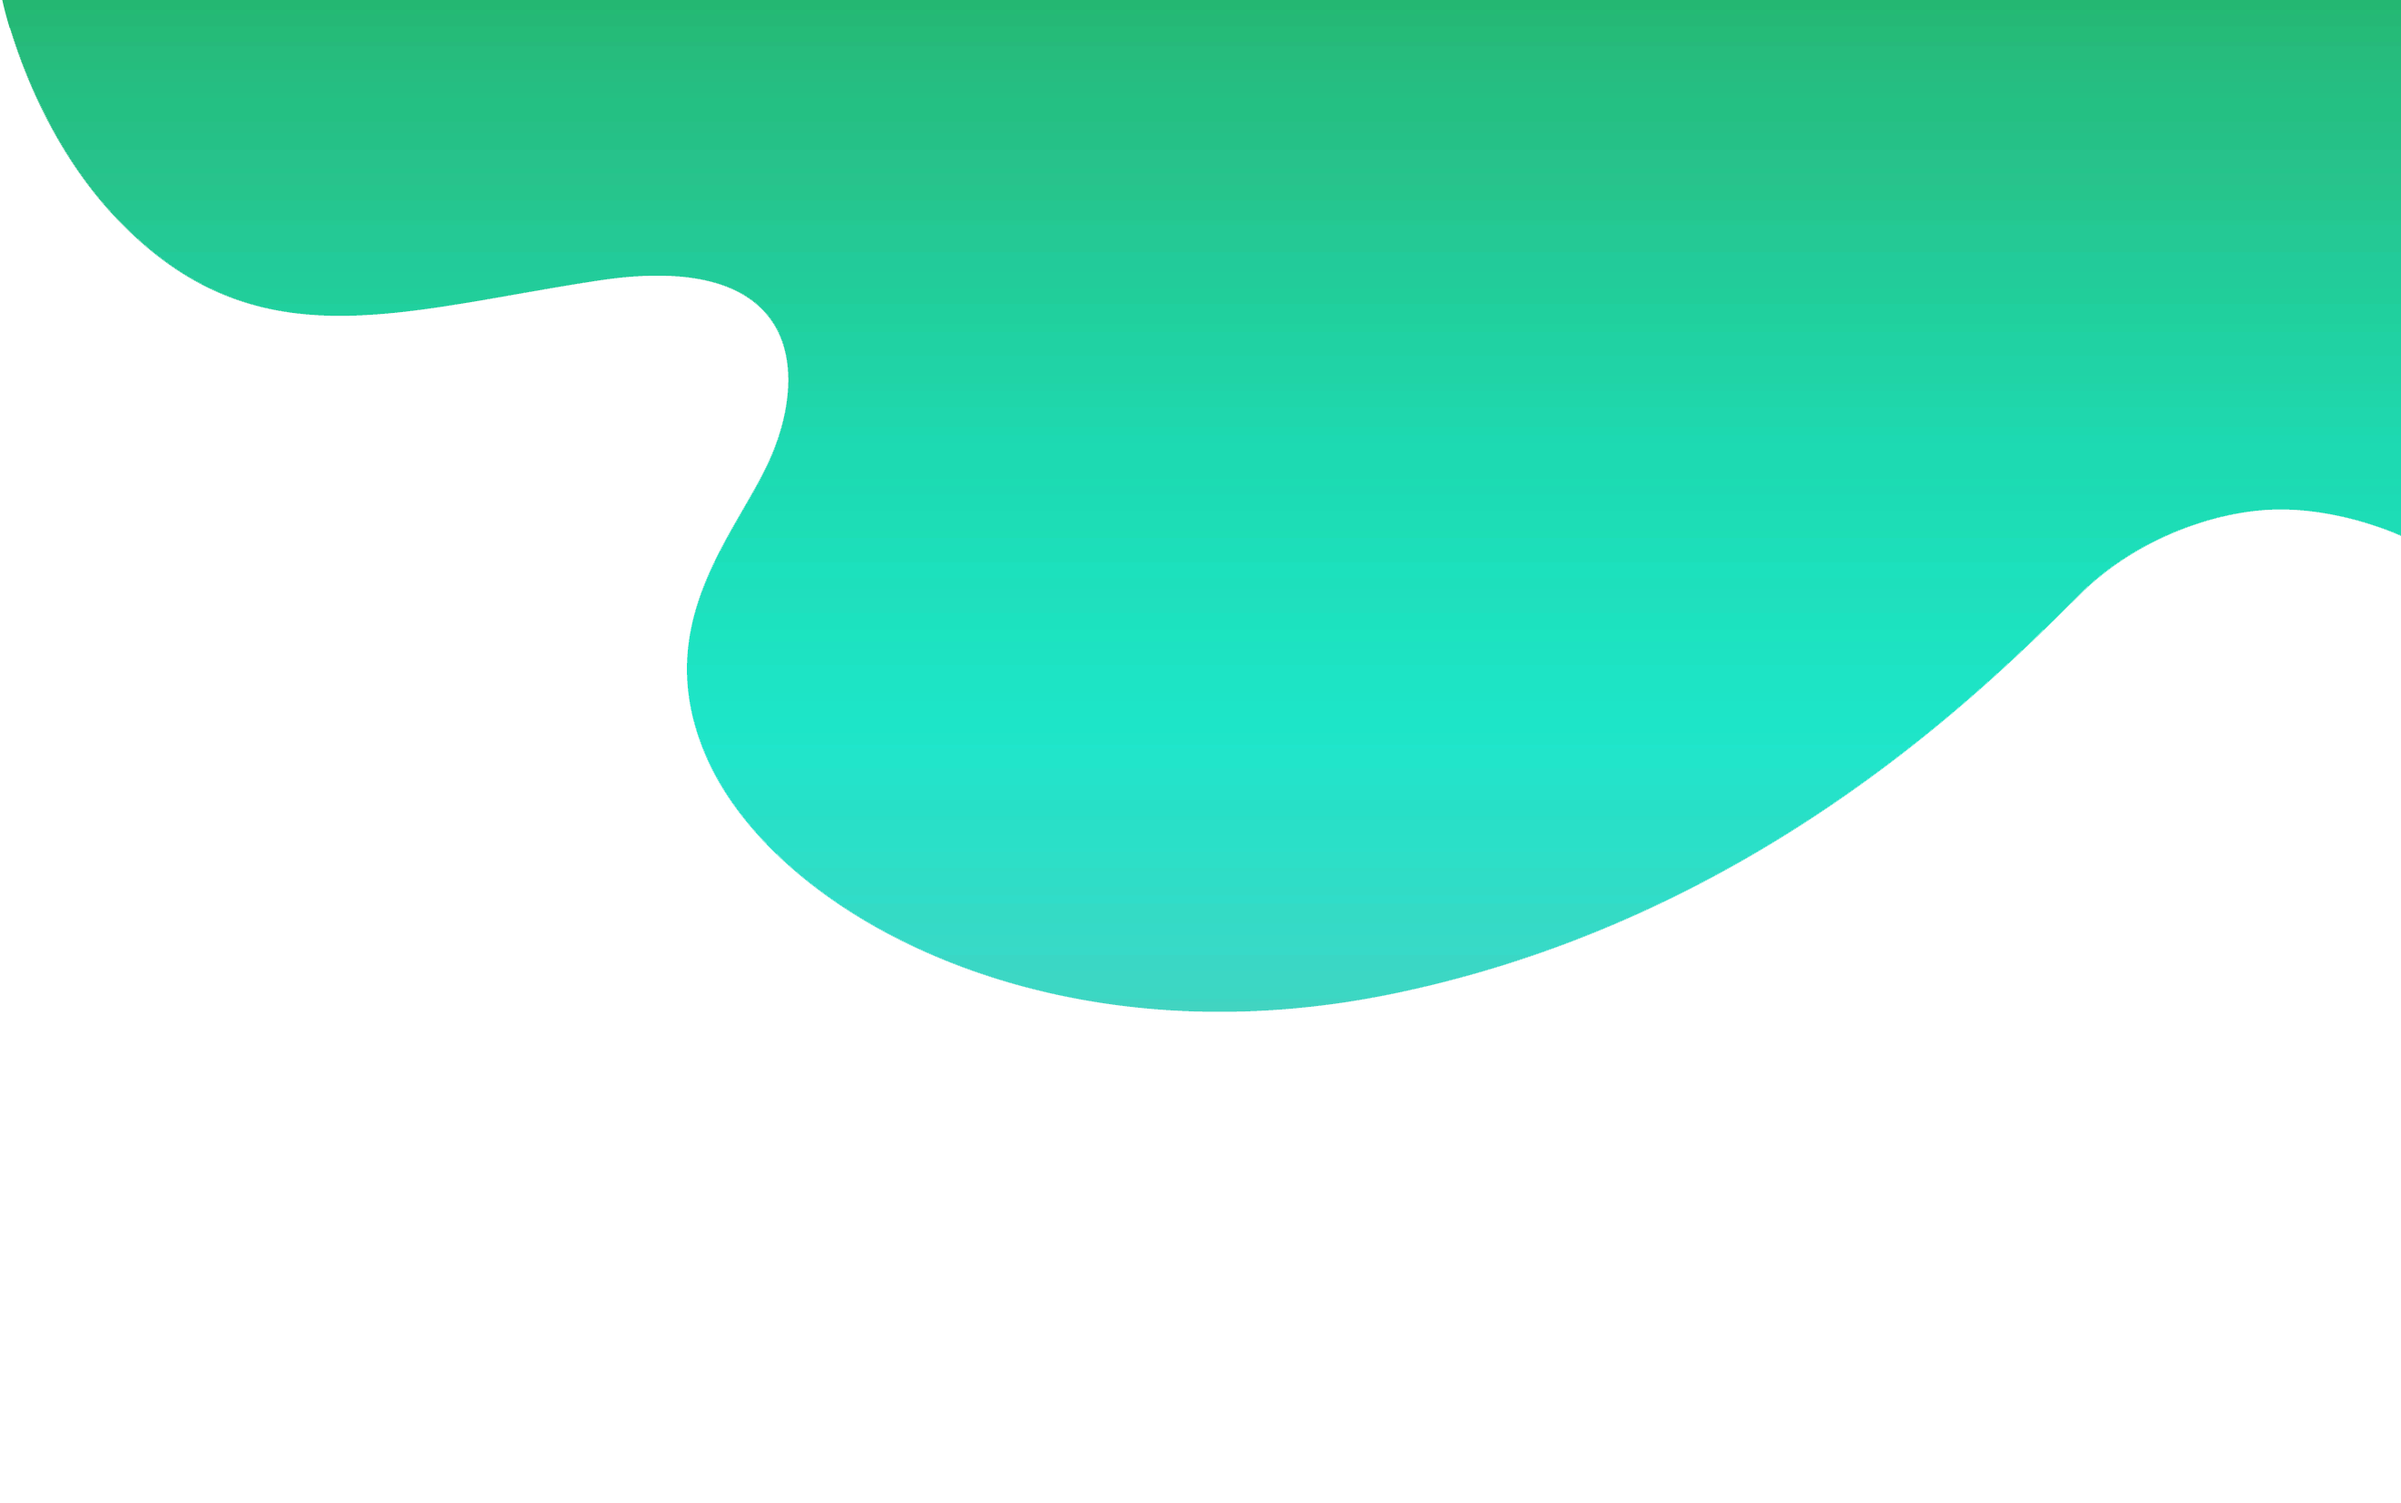
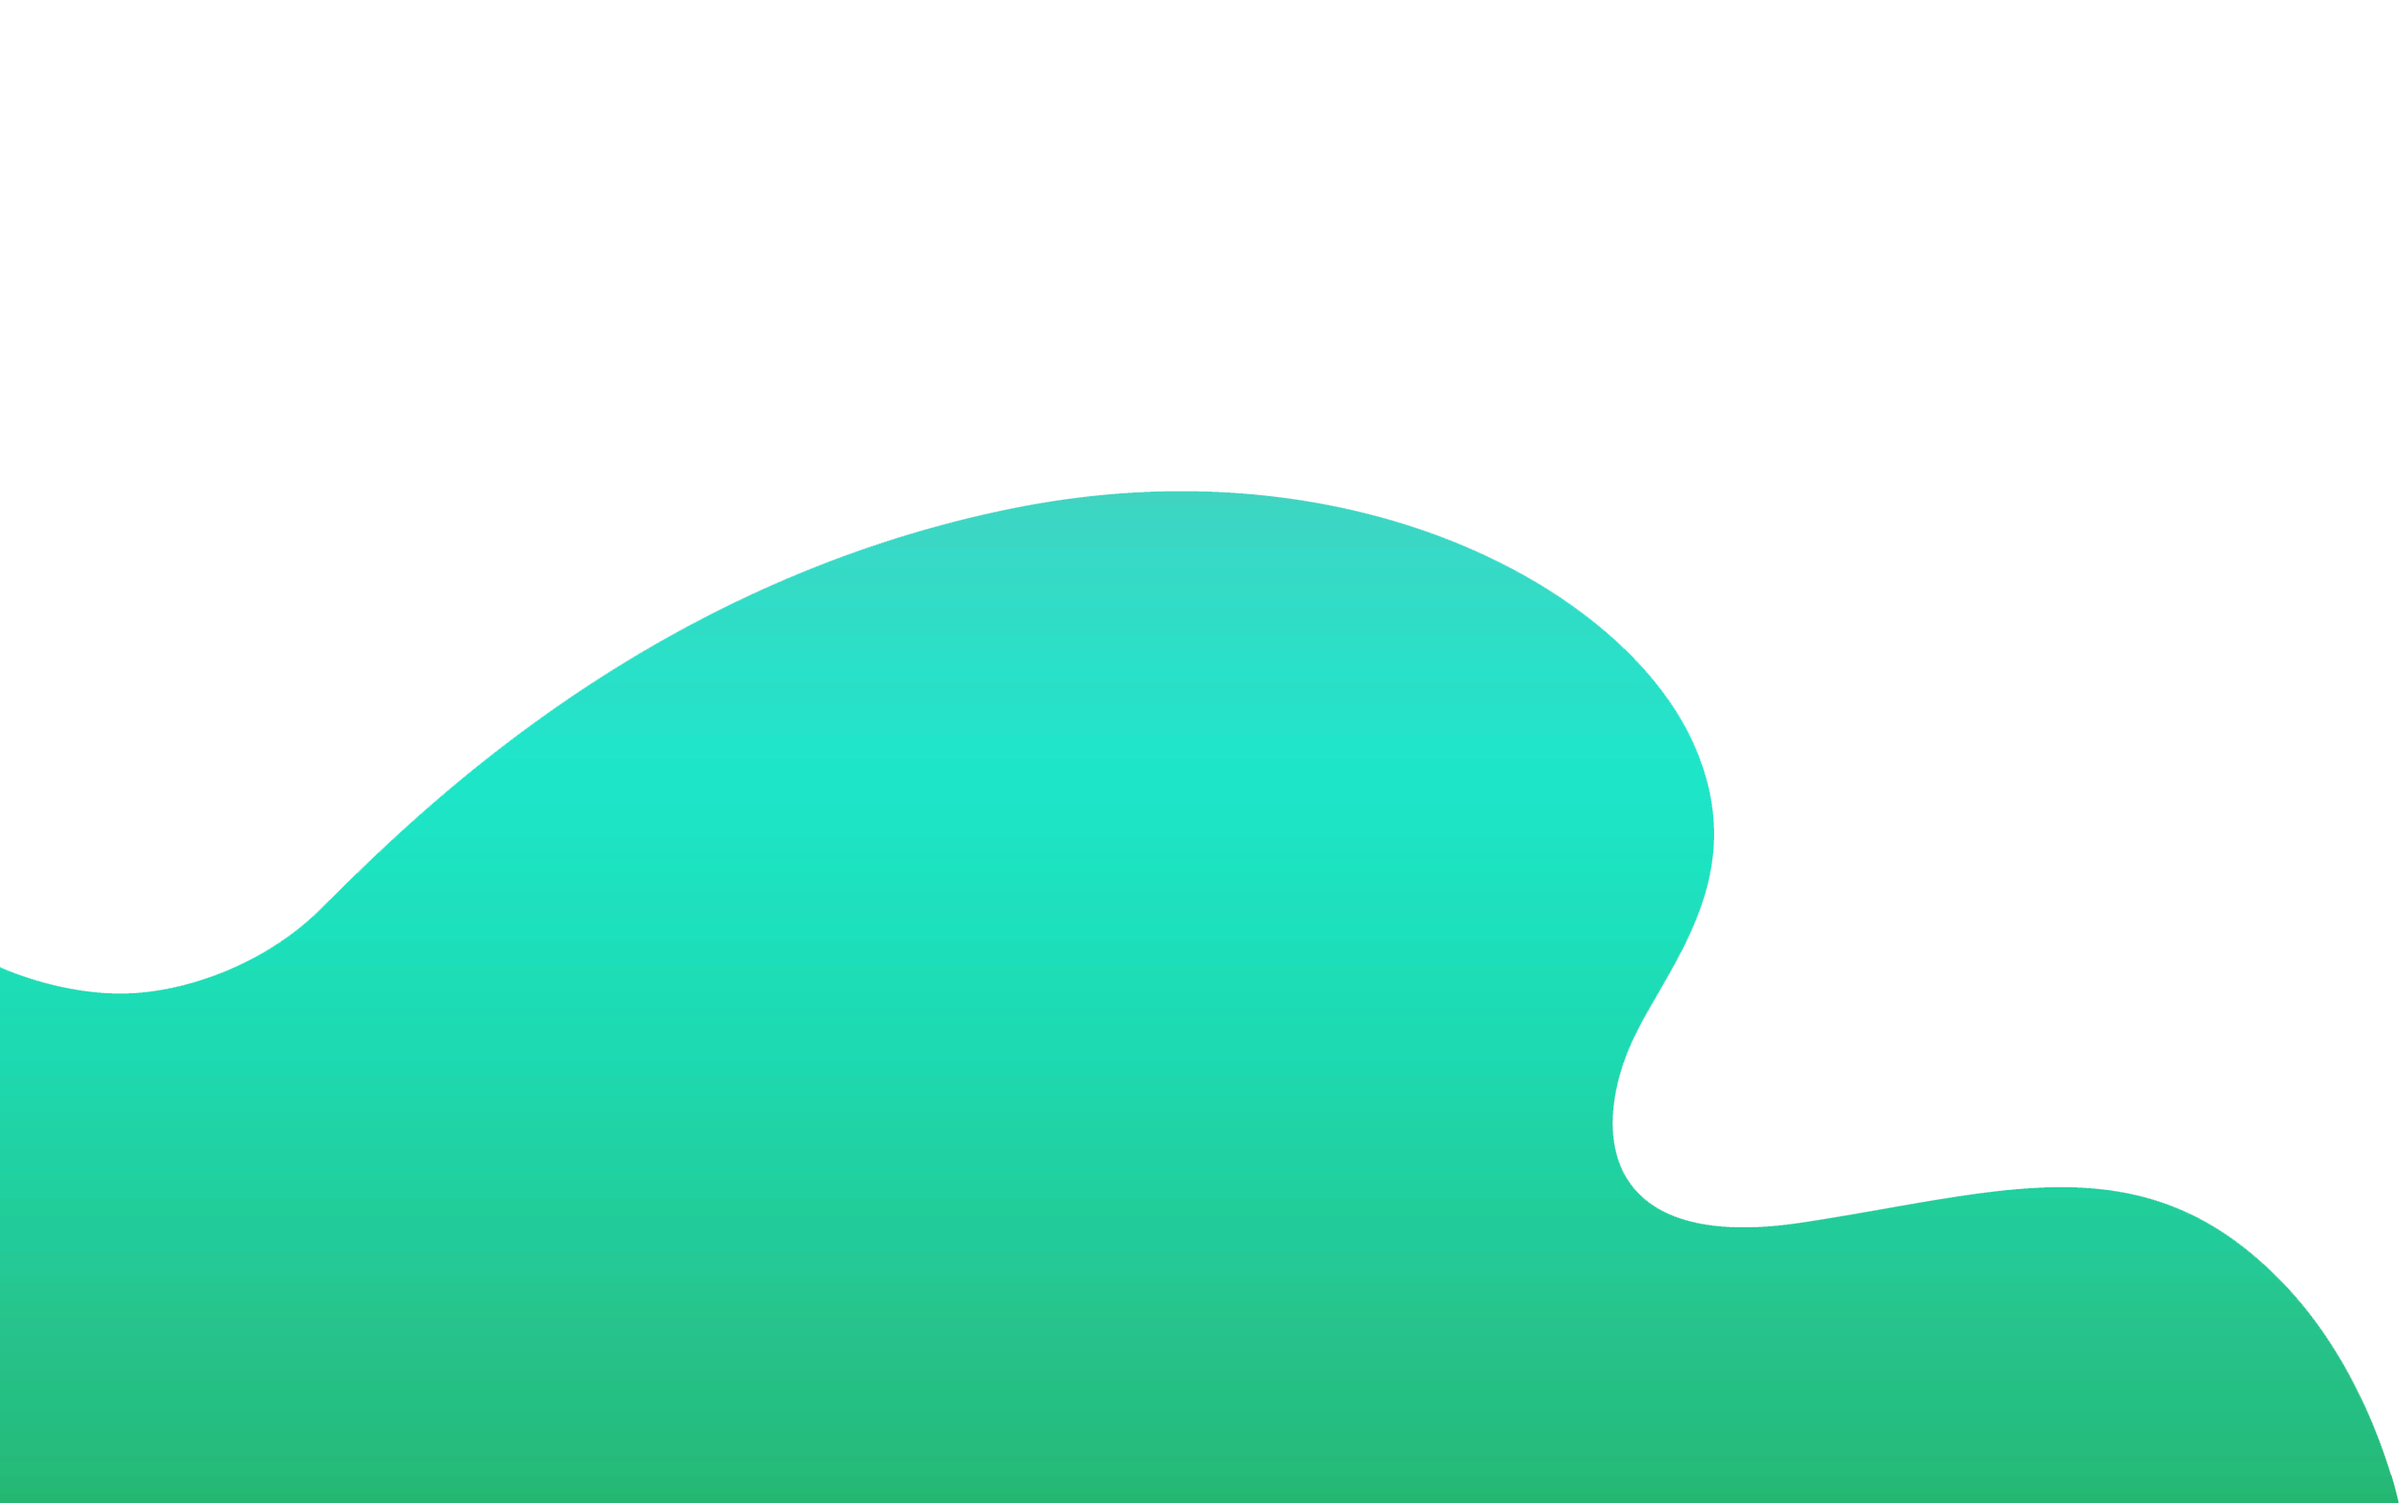
changed theme coin

diff --git a/src/index.css b/src/index.css
@@ -1,5 +1,4 @@
 @import url('https://fonts.googleapis.com/css2?family=Raleway:wght@800&display=swap');
-
 html.color-theme-in-transition, html.color-theme-in-transition *, html.color-theme-in-transition *:before, html.color-theme-in-transition *:after {
   transition: all 750ms !important;
   transition-delay: 0 !important;
@@ -18,7 +17,7 @@ html[data-theme="false"] {
   --primaryTheme: #25be82;
   --primaryBg: #1a1a1d;
   --primaryBgSize: contain;
-  --primaryText: #ffc744;
+  --primaryText: #3dbbd2;
   --secondaryText: #1a1a1d;
 }
 
@@ -45,15 +44,10 @@ section {
   top: 5%;
   left: 7%;
   color: var(--primaryText);
-  /* border-radius: 100% 86% 29% 50% / 100% 100% 49% 59%; */
-  /* border: 1rem solid var(--primaryBg);
-  background-color: var(--primaryBg); */
-  padding: 0 1rem 0 0;
-  margin: 0;
 }
 
 body {
-  background: url(./assets/blob4.png) no-repeat top right fixed, var(--primaryBg);
+  background: url(./assets/blob5.png) no-repeat bottom right fixed, var(--primaryBg);
   background-size: contain;
   color: var(--primaryText);
 }
@@ -68,10 +62,11 @@ input {
   color: var(--secondaryText);
 }
 
-select{
+select {
   background: var(--primaryText);
   color: var(--secondaryText);
 }
+
 .text {
   margin: 0;
   line-height: 0.55;
@@ -79,6 +74,7 @@ select{
 
 span {
   display: inline-block;
+  width:20px;
 }
 
 .stack {
@@ -94,10 +90,9 @@ span {
   }
 }
 
-.bouncing {
+section img {
+  border:2px black;
   animation: bounce 0.4s;
   animation-iteration-count: infinite;
   animation-direction: alternate;
-  font-family: "Times New Roman", Times, serif;
-  color: var(--primaryTheme)
 }

diff --git a/src/ThemeSlider.tsx b/src/ThemeSlider.tsx
@@ -1,13 +1,15 @@
 import React from 'react';
 import './ThemeSlider.css';
+import Heads from './assets/heads.png'
+import Tails from './assets/tails.png'
 
-interface Props{
-isOn:boolean,
-handleToggle: ((event: React.ChangeEvent<HTMLInputElement>) => void),
+interface Props {
+  isOn: boolean,
+  handleToggle: ((event: React.ChangeEvent<HTMLInputElement>) => void),
 }
 
 
-export default function ThemeSlider (props: Props) {
+export default function ThemeSlider(props: Props) {
   return (
     <div style={wrapper}>
       <input
@@ -18,18 +20,21 @@ export default function ThemeSlider (props: Props) {
         type="checkbox"
       />
       <label
-        style={props.isOn ? {background: '#1a1a1d'} : {background: '#DBD5B5'}}
+        style={props.isOn ? { background: '#1a1a1d' } : { background: '#DBD5B5' }}
         className="themeSlider-label"
         htmlFor={`themeSlider-new`}
       >
-        <span className={`themeSlider-button`} />
+        <span 
+        className={`themeSlider-button`}
+        style={props.isOn ? { backgroundImage: `url(${Tails})` } : { backgroundImage:  `url(${Heads})`}}
+        />
       </label>
     </div>
   );
 };
 
 const wrapper: React.CSSProperties = {
-  position: 'fixed',
+        position: 'fixed',
   top: '1rem',
   right:'1rem'
 }

diff --git a/src/ThemeSlider.css b/src/ThemeSlider.css
@@ -1,6 +1,7 @@
 .themeSlider {
   visibility: hidden;
 }
+
 .themeSlider-label {
   display: flex;
   align-items: center;
@@ -12,23 +13,15 @@
   position: relative;
 }
 
-.themeSlider-label .themeSlider-button {
-  content: '';
-  top: 0.5%;
-  left: 0.5%;
+.themeSlider-button {
   position: absolute;
-  width: 1.3rem;
-  height:  1.3rem;
-  border-radius:  50%;
+  top: 0.5%;
+  right: 0.5%;
+  width: 3rem;
+  height: 3rem;
+  border-radius: 50%;
   transition: 0.5s;
-  background: #40798C;
-}
-
-.themeSlider:checked + .themeSlider-label .themeSlider-button {
-  left: calc(100% - 0.5%);
-  transform: translateX(-100%);
-}
-
-.themeSlider-label:active .themeSlider-button {
-  width: 1rem;
+  background-size: contain;
+  border: 1px solid black;
+  filter: sepia(60%);
 }

diff --git a/src/App.tsx b/src/App.tsx
@@ -3,7 +3,8 @@ import Layout from './Layout';
 import { Switch,Route,Link } from 'react-router-dom'
 import Graph from './Graph';
 import About from './About';
-import Image from './Image'
+import Image from './Image';
+import artWork from "./assets/18920.png"
 
 export default function App() {
   return (
@@ -28,7 +29,7 @@ export default function App() {
           <Layout displayImage={<About/>} />
           </Route>
           <Route path="/">
-            <Layout displayImage={<Image/>} />
+            <Layout displayImage={<Image imageSrc={artWork} imageWidth={'100%'}/>} />
           </Route>
           <Route path="/graph">
             <Layout displayImage={<Graph/>} />

diff --git a/src/CurrencyOptions.tsx b/src/CurrencyOptions.tsx
@@ -200,10 +200,10 @@ export default class CurrencyOptions extends React.Component<Props, State> {
                         />
                         <Flag flagImage={this.state.toFlag} />
                     </div>
-                    <LineGraph 
+                    {/* <LineGraph 
                     toCurrency={this.state.toCurrency}
                     fromCurrency={this.state.fromCurrency}
-                    />
+                    /> */}
                 </div >)
         }
     }

diff --git a/src/Image.tsx b/src/Image.tsx
@@ -1,13 +1,15 @@
 import React from 'react';
-import artWork from "./assets/18920.png";
 
-export default function Image() {
+
+interface Props{
+    imageSrc: string
+    imageWidth: string
+}
+
+export default function Image(props: Props) {
     return (
-       <img style={imageStyle} src={artWork} alt=""/>
+       <img style={{width: props.imageWidth}} src={props.imageSrc} alt=""/>
     )
 }
 
-const imageStyle: React.CSSProperties ={
-    width: '100%',
-}
 

diff --git a/src/Layout.tsx b/src/Layout.tsx
@@ -15,6 +15,7 @@ export default function Layout(props: Props) {
         window.setTimeout(() => {
             document.documentElement.classList.remove("color-theme-in-transition");
         }, 1000);
+
     }
 
     return (

diff --git a/README.md b/README.md
@@ -14,6 +14,8 @@ A Currency Converter WebApp for the international traveller or trader.
 
 ## Installation
 This project was bootstrapped with [Create React App](https://github.com/facebook/create-react-app).
+To install all the dependencies first run:
+### `npm install`
 In the project directory, you can run:
 ### `npm start`
 
